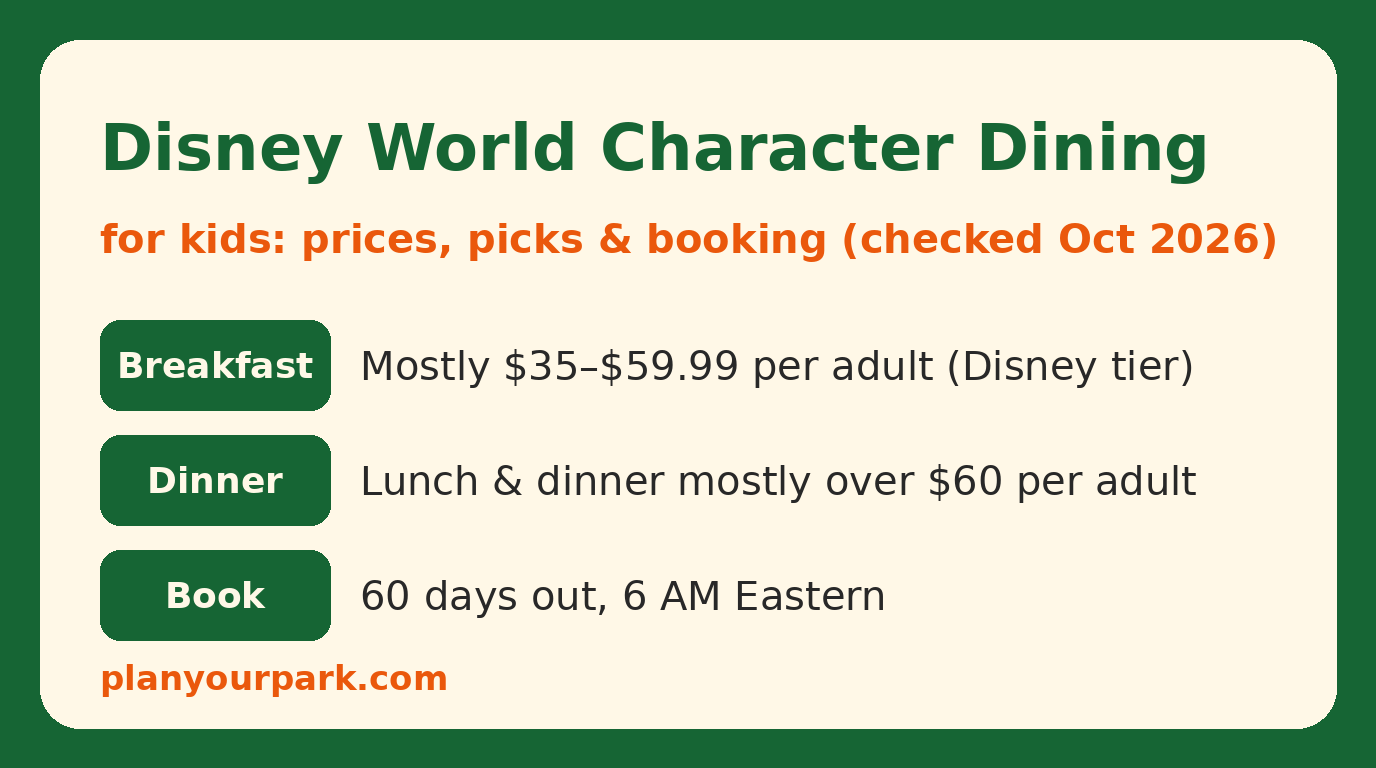
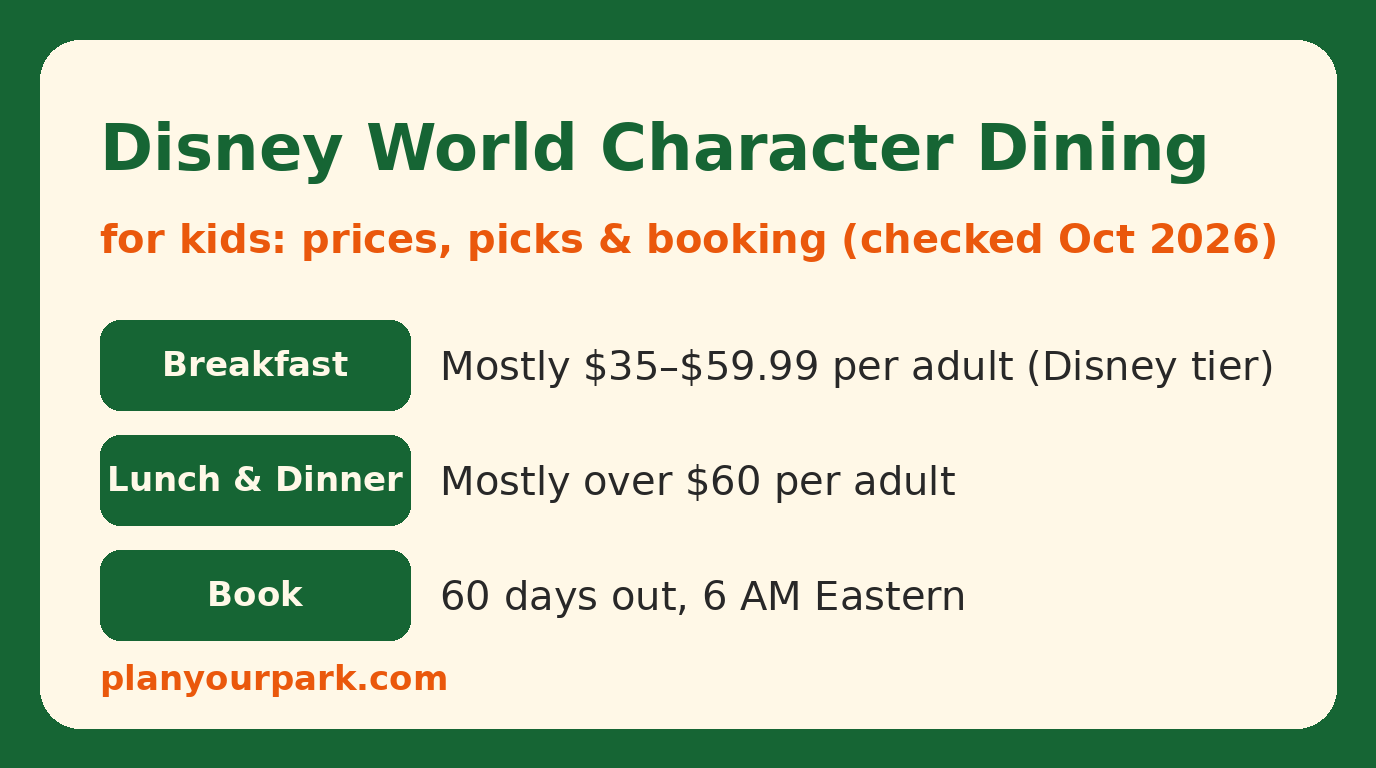
Post 1 hero: label second row 'Lunch & Dinner'

Changed region(s): [[0.0625, 0.4062, 0.9375, 0.6875], [0.125, 0.7188, 0.7188, 0.8438]]

diff --git a/ops/drafts/character-dining-kids/make_hero.py b/ops/drafts/character-dining-kids/make_hero.py
@@ -7,11 +7,11 @@ im=Image.new('RGB',(W,H),GREEN); d=ImageDraw.Draw(im)
 d.rounded_rectangle([40,40,W-40,H-40],radius=40,fill=CREAM)
 d.text((100,110),"Disney World Character Dining",font=ImageFont.truetype(F,64),fill=GREEN)
 d.text((100,215),"for kids: prices, picks & booking (checked Oct 2026)",font=ImageFont.truetype(F,40),fill=ORANGE)
-rows=[("Breakfast","Mostly $35–$59.99 per adult (Disney tier)"),("Dinner","Lunch & dinner mostly over $60 per adult"),("Book","60 days out, 6 AM Eastern")]
+rows=[("Breakfast","Mostly $35–$59.99 per adult (Disney tier)"),("Lunch & Dinner","Mostly over $60 per adult"),("Book","60 days out, 6 AM Eastern")]
 y=320
 for a,b in rows:
-    d.rounded_rectangle([100,y,330,y+90],radius=20,fill=GREEN)
-    fa=ImageFont.truetype(F,36); tw=d.textlength(a,font=fa); d.text((215-tw/2,y+24),a,font=fa,fill=CREAM)
-    d.text((360,y+22),b,font=ImageFont.truetype(R,40),fill=INK); y+=115
+    d.rounded_rectangle([100,y,410,y+90],radius=20,fill=GREEN)
+    fa=ImageFont.truetype(F,34); tw=d.textlength(a,font=fa); d.text((255-tw/2,y+24),a,font=fa,fill=CREAM)
+    d.text((440,y+22),b,font=ImageFont.truetype(R,40),fill=INK); y+=115
 d.text((100,H-110),'planyourpark.com',font=ImageFont.truetype(F,34),fill=ORANGE)
 im.save('hero-1376x768.png')

diff --git a/ops/drafts/character-dining-kids/apply.py b/ops/drafts/character-dining-kids/apply.py
@@ -1,5 +1,5 @@
 import json,os,urllib.request
-d=json.load(open('sanity-doc.json')); d['heroImage']={'_type':'image','alt':'Text graphic: Disney World character dining for kids. Breakfast mostly 35 to 59.99 dollars per adult, lunch and dinner mostly over 60 dollars per adult, book 60 days out at 6 AM Eastern.','asset':{'_type':'reference','_ref':'image-a437a27f14ca8c05911fc9d288f0b94c1c0eb1da-1376x768-png'}}
+d=json.load(open('sanity-doc.json')); d['heroImage']={'_type':'image','alt':'Text graphic: Disney World character dining for kids. Breakfast mostly 35 to 59.99 dollars per adult, lunch and dinner mostly over 60 dollars per adult, book 60 days out at 6 AM Eastern.','asset':{'_type':'reference','_ref':'image-861c64423496b5c39c4b10681841e143c85a2268-1376x768-png'}}
 assert d['_id'].startswith('drafts.')
 req=urllib.request.Request('https://hd7qwtcq.api.sanity.io/v2023-01-01/data/mutate/production',data=json.dumps({"mutations":[{"createOrReplace":d}]}).encode(),headers={'Authorization':'Bearer '+os.environ['SANITY_API_TOKEN'],'Content-Type':'application/json'})
 print(urllib.request.urlopen(req).read().decode()[:300])
